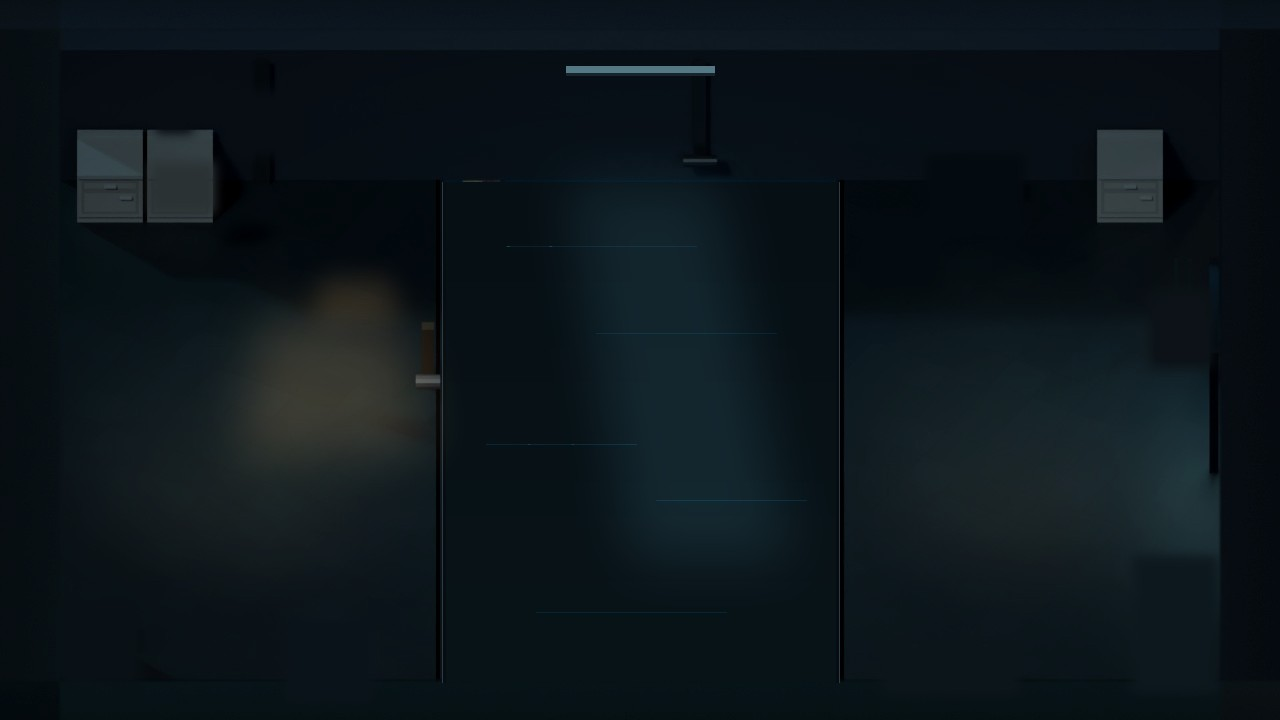
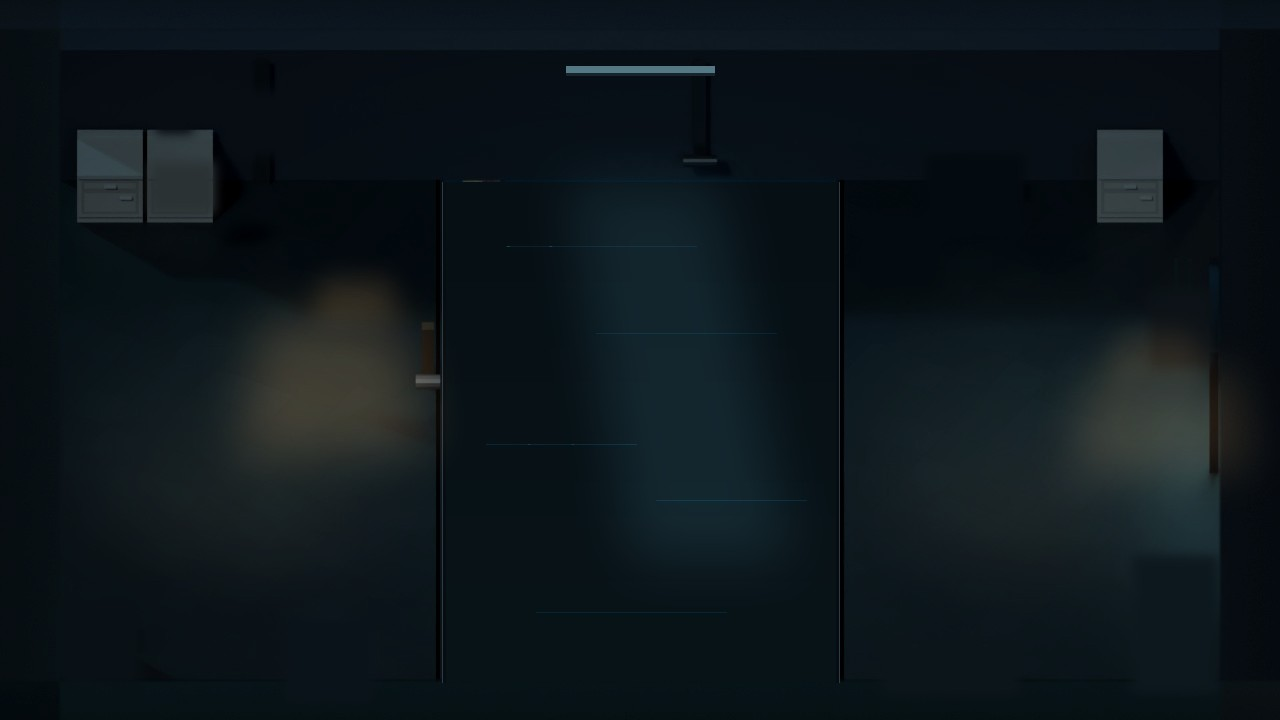
WIP GB-5b: right-half props (records lockers, floor lamp, boxes; Kenney Furniture Kit CC0), warm plate cross-fade after the trade replaces the multiply overlay

Changed region(s): [[0.8438, 0.4583, 0.9688, 0.6417]]

diff --git a/game/src/archive.ts b/game/src/archive.ts
@@ -52,7 +52,7 @@ export class ArchiveRoom {
   private beam: Phaser.GameObjects.Graphics;
   private beamMaskG: Phaser.GameObjects.Graphics;
   private waterLine: Phaser.GameObjects.Graphics;
-  private warm: Phaser.GameObjects.Rectangle;
+  private warm?: Phaser.GameObjects.Image;   // the relit plate (cross-faded in after the trade)
   private lampGlow: Phaser.GameObjects.Graphics;
   private chip: InteractChip;
   private wordChip: Phaser.GameObjects.Container;
@@ -105,14 +105,14 @@ export class ArchiveRoom {
     this.beamMaskG = s.make.graphics({}, false); this.beamMaskG.fillStyle(0xffffff, 1).fillRect(LAND.x0, LAND.y0, LAND.x1 - LAND.x0, LAND.y1 - LAND.y0);
     this.beam.setMask(this.beamMaskG.createGeometryMask());
     this.lampGlow = s.add.graphics().setDepth(P.keeper.y - 2).setBlendMode(Phaser.BlendModes.ADD);
-    this.warm = s.add.rectangle(0, 0, 1280, 720, 0xffe2c0, 1).setOrigin(0).setAlpha(0).setDepth(-985).setBlendMode(Phaser.BlendModes.MULTIPLY);
+    this.warm = s.bg.warm;   // art plate 'warm': Dez's lamp up, the Keeper's lamp on the water, the left floor lit
     this.chip = new InteractChip(s, 9004);
     // the word riding on the Caret: a torn slip of card with the word printed on it
     this.wordChip = s.add.container(0, 0).setDepth(3610).setVisible(false);
     const slip = s.add.graphics(); slip.fillStyle(0x0a0e14, 0.5).fillRect(-26, -7, 54, 17); slip.fillStyle(0xe8e0cc, 1).fillRect(-27, -9, 54, 17); slip.lineStyle(1, 0x3a3226, 1).strokeRect(-27, -9, 54, 17);
     this.wordChipText = s.add.text(0, -1, '', { fontFamily: '"Barlow Condensed", "Arial Narrow", sans-serif', fontSize: '13px', fontStyle: '800', color: '#12161f' }).setOrigin(0.5);
     this.wordChip.add([slip, this.wordChipText]);
-    s.objs.push(this.dezRig, this.keeperRig, this.waterLine, this.pole, this.lantern, this.beam, this.beamMaskG, this.lampGlow, this.warm, this.chip.root, this.wordChip);
+    s.objs.push(this.dezRig, this.keeperRig, this.waterLine, this.pole, this.lantern, this.beam, this.beamMaskG, this.lampGlow, this.chip.root, this.wordChip);
     s.dyn.a13desk = { x: DESK.x0 + 2, y: 356, w: DESK.x1 - DESK.x0 - 4, h: 34 };
     const kb = s.input.keyboard;
     if (kb) { this.keyF = kb.addKey('F'); this.keyL = kb.addKey('LEFT'); this.keyR = kb.addKey('RIGHT'); this.keyQ = kb.addKey('Q'); }
@@ -423,8 +423,8 @@ export class ArchiveRoom {
     this.keeper.setTexture('a13_keeper_asleep').setOrigin(ks.foot[0] / ks.w, ks.foot[1] / ks.h);
     const anc = { x: (ks.card[0] - ks.foot[0]) * KS, y: (ks.card[1] - ks.foot[1]) * KS + CH };
     STAFF_RECORDS.a_keeper.anchor = anc; STAFF_RECORDS.a_keeper.tilt = 0.16;
-    if (initial) { this.keeperCard.setLean(0); this.warm.setAlpha(1); }
-    else { s.tweens.add({ targets: this.keeperCard.root, x: anc.x, y: anc.y, rotation: 0.16, duration: 700, ease: 'Sine.easeInOut' }); s.tweens.add({ targets: this.warm, alpha: 1, duration: 1600 }); }
+    if (initial) { this.keeperCard.setLean(0); this.warm?.setAlpha(1); }
+    else { s.tweens.add({ targets: this.keeperCard.root, x: anc.x, y: anc.y, rotation: 0.16, duration: 700, ease: 'Sine.easeInOut' }); if (this.warm) s.tweens.add({ targets: this.warm, alpha: 1, duration: 2200, ease: 'Sine.easeInOut' }); }
     const aw = A13.dez_awake; this.dez.setTexture('a13_dez_awake').setOrigin(aw.desk_front[0] / aw.w, aw.desk_front[1] / aw.h);
     try { this.breath?.stop(); } catch { /* */ }
     if (!initial) { this.playSample('sfx_dez_wake', 0.8); this.playSample('sfx_keeper_clunk', 0.6); }

diff --git a/game/src/roomart.ts b/game/src/roomart.ts
@@ -310,12 +310,45 @@ export const ROOMART: Record<string, RoomArt> = {
  },
  "archive": {
   "images": {
-   "base": "rooms/archive13_bleed.jpg"
+   "base": "rooms/archive13_bleed.jpg",
+   "warm": "rooms/archive13_warm.jpg"
   },
   "code": {
    "base": "rooms/archive13_code.jpg"
   },
   "fg": [
+   {
+    "key": "fg_a13_shelf0",
+    "name": "shelf0",
+    "file": "rooms/fg/a13_shelf.png",
+    "x": 890,
+    "y": 86,
+    "baseY": 214
+   },
+   {
+    "key": "fg_a13_shelf",
+    "name": "shelf1",
+    "file": "rooms/fg/a13_shelf.png",
+    "x": 960,
+    "y": 86,
+    "baseY": 214
+   },
+   {
+    "key": "fg_a13_lamp",
+    "name": "floorlamp",
+    "file": "rooms/fg/a13_lamp.png",
+    "x": 1154,
+    "y": 236,
+    "baseY": 346
+   },
+   {
+    "key": "fg_a13_boxes",
+    "name": "boxes",
+    "file": "rooms/fg/a13_boxes.png",
+    "x": 1119,
+    "y": 540,
+    "baseY": 596
+   },
    {
     "key": "fg_a13_winch",
     "name": "winch",

diff --git a/game/src/rooms.ts b/game/src/rooms.ts
@@ -101,6 +101,10 @@ export const ROOMS: Record<RoomId, RoomDef> = {
       { x: 80, y: 120, w: 60, h: 90, color: 0x26343e, top: 0x34444e, solid: true },  // filing cabinets
       { x: 150, y: 120, w: 60, h: 90, color: 0x26343e, top: 0x34444e, solid: true },
       { x: 1100, y: 120, w: 60, h: 90, color: 0x26343e, top: 0x34444e, solid: true },
+      // GB-5b: right-half props (drawn by the render; these are their colliders)
+      { x: 890, y: 150, w: 140, h: 66, color: 0x26343e, solid: true },     // two records lockers on the back wall
+      { x: 1154, y: 330, w: 22, h: 20, color: 0x26343e, solid: true },     // floor lamp by the exit
+      { x: 1119, y: 566, w: 44, h: 32, color: 0x26343e, solid: true },     // stacked archive boxes
     ],
     // Two staff records, both cards (data anchors; ArchiveRoom draws the cards). The only change is one trade.
     plates: [

diff --git a/art/tools/archive13_post.py b/art/tools/archive13_post.py
@@ -26,23 +26,23 @@ def light(base, poly, color, alpha, blur):
     add = ImageChops.multiply(Image.new('RGB', (W, HH), color), Image.merge('RGB', (m, m, m)))
     return ImageChops.add(base.convert('RGB'), add).convert('RGBA')
 
-def grade(im):
-    """the room grade: darker, colder (same for plate and overlays)"""
+def grade(im, warm=False):
+    """the room grade: darker, colder (same for plate and overlays). warm=True is the relit room after the trade."""
     rgb = im.convert('RGB'); a = im.split()[-1] if im.mode == 'RGBA' else None
-    rgb = ImageEnhance.Brightness(rgb).enhance(0.56)
-    rgb = ImageChops.multiply(rgb, Image.new('RGB', rgb.size, (200, 230, 240)))
+    rgb = ImageEnhance.Brightness(rgb).enhance(0.70 if warm else 0.56)
+    rgb = ImageChops.multiply(rgb, Image.new('RGB', rgb.size, (236, 228, 214) if warm else (200, 230, 240)))
     if a is None: return rgb.convert('RGBA')
     out = rgb.convert('RGBA'); out.putalpha(a); return out
 
 POOL = (446, 182, 836, 682)
-def plate():
+def plate(warm=False):
     b = Image.open(A + 'rooms/archive_H_bleed.jpg').convert('RGBA')
     # clutter out (1280x720 coords): wall lamp disc, cabinet-top box + trinket, side table, boots, white panel/towel,
     # floor drawer, bench, shelf, the old floor light spot
     for r in [(238, 100, 292, 146), (160, 172, 204, 202), (166, 108, 182, 123), (936, 164, 1014, 226), (870, 224, 930, 280),
               (1160, 300, 1202, 356), (70, 606, 130, 674), (890, 650, 1010, 686), (1143, 566, 1207, 682), (296, 626, 362, 692)]:
         b = erase(b, (r[0] - 10, r[1] - 10, r[2] + 10, r[3] + 10), pad=24, blur=5)
-    b = grade(b)
+    b = grade(b, warm)
     # the pool: one flat black-teal sheet, a hair lighter toward the window; faint horizontal sheen streaks only
     pw, ph = POOL[2] - POOL[0], POOL[3] - POOL[1]
     g = Image.new('RGBA', (pw, ph)); gd = ImageDraw.Draw(g)
@@ -57,10 +57,17 @@ def plate():
         d.rectangle((x, POOL[1], x + 3, POOL[3]), fill=(8, 12, 16, 255)); d.line((x + (3 if x > 600 else 0), POOL[1], x + (3 if x > 600 else 0), POOL[3]), fill=(40, 62, 70, 255))
     # light 1: the high window slit on the back wall (cold) and its long parallelogram on the water
     d.rectangle((566, 66, 714, 72), fill=(84, 120, 132, 255)); d.rectangle((566, 73, 714, 75), fill=(24, 36, 44, 255))
-    b = light(b, [(566, 182), (714, 182), (792, 560), (632, 560)], (54, 90, 104), 0.24, 26)
+    b = light(b, [(566, 182), (714, 182), (792, 560), (632, 560)], (54, 90, 104), 0.14 if warm else 0.24, 26)
     # light 2: Dez's shaded desk lamp (warm, low): a trapezoid on the floor around his desk
-    b = light(b, [(262, 318), (402, 318), (430, 448), (236, 456)], (132, 96, 54), 0.32, 24)
+    b = light(b, [(262, 318), (402, 318), (430, 448), (236, 456)], (150, 108, 60), 0.46 if warm else 0.32, 24)
     b = light(b, [(322, 276), (390, 276), (398, 318), (314, 322)], (150, 108, 60), 0.22, 12)
+    # light 4 (GB-5b): the floor lamp by the exit, a low warm pool on the right-hand floor so the far side is not empty
+    b = light(b, [(1090, 372), (1236, 372), (1250, 470), (1070, 474)], (130, 94, 52), 0.40 if warm else 0.30, 22)
+    b = light(b, [(1118, 330), (1190, 330), (1204, 376), (1104, 378)], (140, 100, 54), 0.18, 12)
+    if warm:   # the Keeper's lamp set down on the water at its feet, and the strip lights over the left floor come on warm
+        b = light(b, [(560, 560), (760, 560), (800, 690), (520, 690)], (150, 100, 52), 0.34, 30)
+        b = light(b, [(588, 596), (748, 596), (770, 660), (566, 660)], (176, 120, 64), 0.22, 14)
+        b = light(b, [(70, 260), (440, 260), (460, 640), (60, 640)], (92, 66, 36), 0.22, 40)
     return b.convert('RGB')
 
 def codeview(g):
@@ -113,14 +120,31 @@ def cast():
         meta[n] = dict(m, w=im.width // 2, h=im.height // 2)
     return meta
 
+# placements of the right-half props: (name, base point on the floor in 1x room px, depth baseY)
+PROPS = {'a13_shelf': [(924, 214), (994, 214)], 'a13_lamp': [(1164, 346)], 'a13_boxes': [(1134, 596)]}
+def props():
+    out = {}
+    for n, spots in PROPS.items():
+        im = Image.open(RD + n + '.png').convert('RGBA'); m = json.load(open(RD + n + '.json'))
+        bb = im.getchannel('A').point(lambda v: 255 if v > 18 else 0).getbbox(); im = im.crop(bb)
+        im = im.resize((max(1, round(im.width / 2)), max(1, round(im.height / 2))), Image.LANCZOS)
+        fx, fy = m['foot'][0] - bb[0] / 2, m['foot'][1] - bb[1] / 2
+        if n == 'a13_lamp':   # the lamp keeps its glow; only the stand is dimmed
+            rgb = ImageEnhance.Brightness(im.convert('RGB')).enhance(0.85); a = im.getchannel('A'); im = rgb.convert('RGBA'); im.putalpha(a)
+        else: im = grade(im)
+        im.save(A + 'rooms/fg/%s.png' % n, optimize=True)
+        out[n] = [dict(x=round(bx - fx), y=round(by - fy), baseY=by) for bx, by in spots]
+    return out
+
 if __name__ == '__main__':
-    p = plate(); p.save(A + 'rooms/archive13_bleed.jpg', quality=90); codeview(p).save(A + 'rooms/archive13_code.jpg', quality=88)
+    p = plate(); p.save(A + 'rooms/archive13_bleed.jpg', quality=90); plate(True).save(A + 'rooms/archive13_warm.jpg', quality=90); codeview(p).save(A + 'rooms/archive13_code.jpg', quality=88)
     for n in ['archive_winch', 'archive_exit'] + ['bridge_%02d' % k for k in range(8)]:
         grade(Image.open(A + 'rooms/fg/%s.png' % n).convert('RGBA')).save(A + 'rooms/fg/a13_%s.png' % n.replace('archive_', ''), optimize=True)
     ds, dm = drip_strip(); ds.save(A + 'rooms/amb/archive13_drip.png', optimize=True)
     ss, sm = sheen_strip(); ss.save(A + 'rooms/amb/archive13_sheen.png', optimize=True)
     grade(Image.open(A + 'rooms/amb/archive_H_line.png').convert('RGBA')).save(A + 'rooms/amb/archive13_line.png', optimize=True)
     meta = cast()
+    print('PROPS', json.dumps(props()))
     ts = ('// generated by art/tools/archive13_post.py from art/render/archive13 (archive13.py renders). 1x px; images are 2x.\n'
           'export const A13 = ' + json.dumps(meta) + ' as const;\n'
           'export const A13_DRIP = ' + json.dumps(dm) + ';\nexport const A13_SHEEN = ' + json.dumps(sm) + ';\n')

diff --git a/art/tools/archive13_props.py b/art/tools/archive13_props.py
@@ -1,0 +1,32 @@
+# art-v13 GB-5b: three quiet props for the Archive's right half, from the Kenney Furniture Kit (CC0, already credited):
+#   a13_shelf   bookcaseClosedDoors  against the back wall
+#   a13_lamp    lampSquareFloor      a warm floor lamp beside the exit (the only prop that gives light)
+#   a13_boxes   two cardboardBoxClosed stacked, tied, on the floor
+# Rendered on the game's 3/4 ortho camera at 2x, graded colder in archive13_post.py.
+# usage: blender -b --python archive13_props.py -- OUTDIR [samples]
+import bpy, math, sys, os, json
+sys.argv_backup = sys.argv
+argv = sys.argv[sys.argv.index('--') + 1:]
+sys.argv = [sys.argv[0], '--', argv[0], 'x', argv[1] if len(argv) > 1 else '64']   # reuse archive13.py helpers without running its renders
+src = open(os.path.join(os.path.dirname(os.path.abspath(__file__)), 'archive13.py')).read()
+src = src[:src.index('# ------------------------------------------------------------------ Dez')]   # helpers only
+exec(compile(src, 'archive13_helpers', 'exec'))
+
+def render_prop(name, parts, W, H, centre, scale=1.0, lamp=False):
+    sc = reset(); cam = camera(sc, W, H, centre, ortho=max(W, H) / (PXU * 1.12))   # same px per metre as Dez's desk
+    z = 0.0
+    for (f, loc, rz, sc_) in parts:
+        h, new = glb(FK + f, (loc[0], loc[1], z), rz, scale=sc_ * scale, centre=True)
+        bpy.context.view_layer.update()
+        z = max(v for o in new if o.type == 'MESH' for v in [(o.matrix_world @ Vector(c)).z for c in o.bound_box])
+    light('SUN', (0, 0, 5), 1.4, (0.55, 0.78, 0.92), 12, (R(-38), R(12), R(8)))
+    light('SUN', (0, 0, 5), 1.1, (0.40, 0.52, 0.70), 30, (R(48), 0, R(-20)), False)
+    if lamp: light('POINT', (0.0, -0.05, 0.62), 28, (1.0, 0.72, 0.42), 0.06)
+    bpy.context.view_layer.update()
+    meta = dict(w=W, h=H, foot=px(sc, cam, (0, 0, 0)))
+    save(sc, name, meta)
+
+render_prop('a13_shelf', [('bookcaseClosedDoors.glb', (0, 0, 0), 0, 1.0)], 300, 260, (0, 0, 0.55), scale=float(os.environ.get('SH', 1.0)))
+render_prop('a13_lamp', [('lampSquareFloor.glb', (0, 0, 0), 0, 1.0)], 120, 260, (0, 0, 0.60), scale=float(os.environ.get('LP', 0.9)), lamp=True)
+render_prop('a13_boxes', [('cardboardBoxClosed.glb', (0, 0, 0), R(8), 1.0), ('cardboardBoxClosed.glb', (0.0, 0.0, 0.0), R(-12), 0.82)], 200, 200, (0, 0, 0.30), scale=float(os.environ.get('BX', 0.72)))
+print('ARCHIVE13 PROPS DONE')
